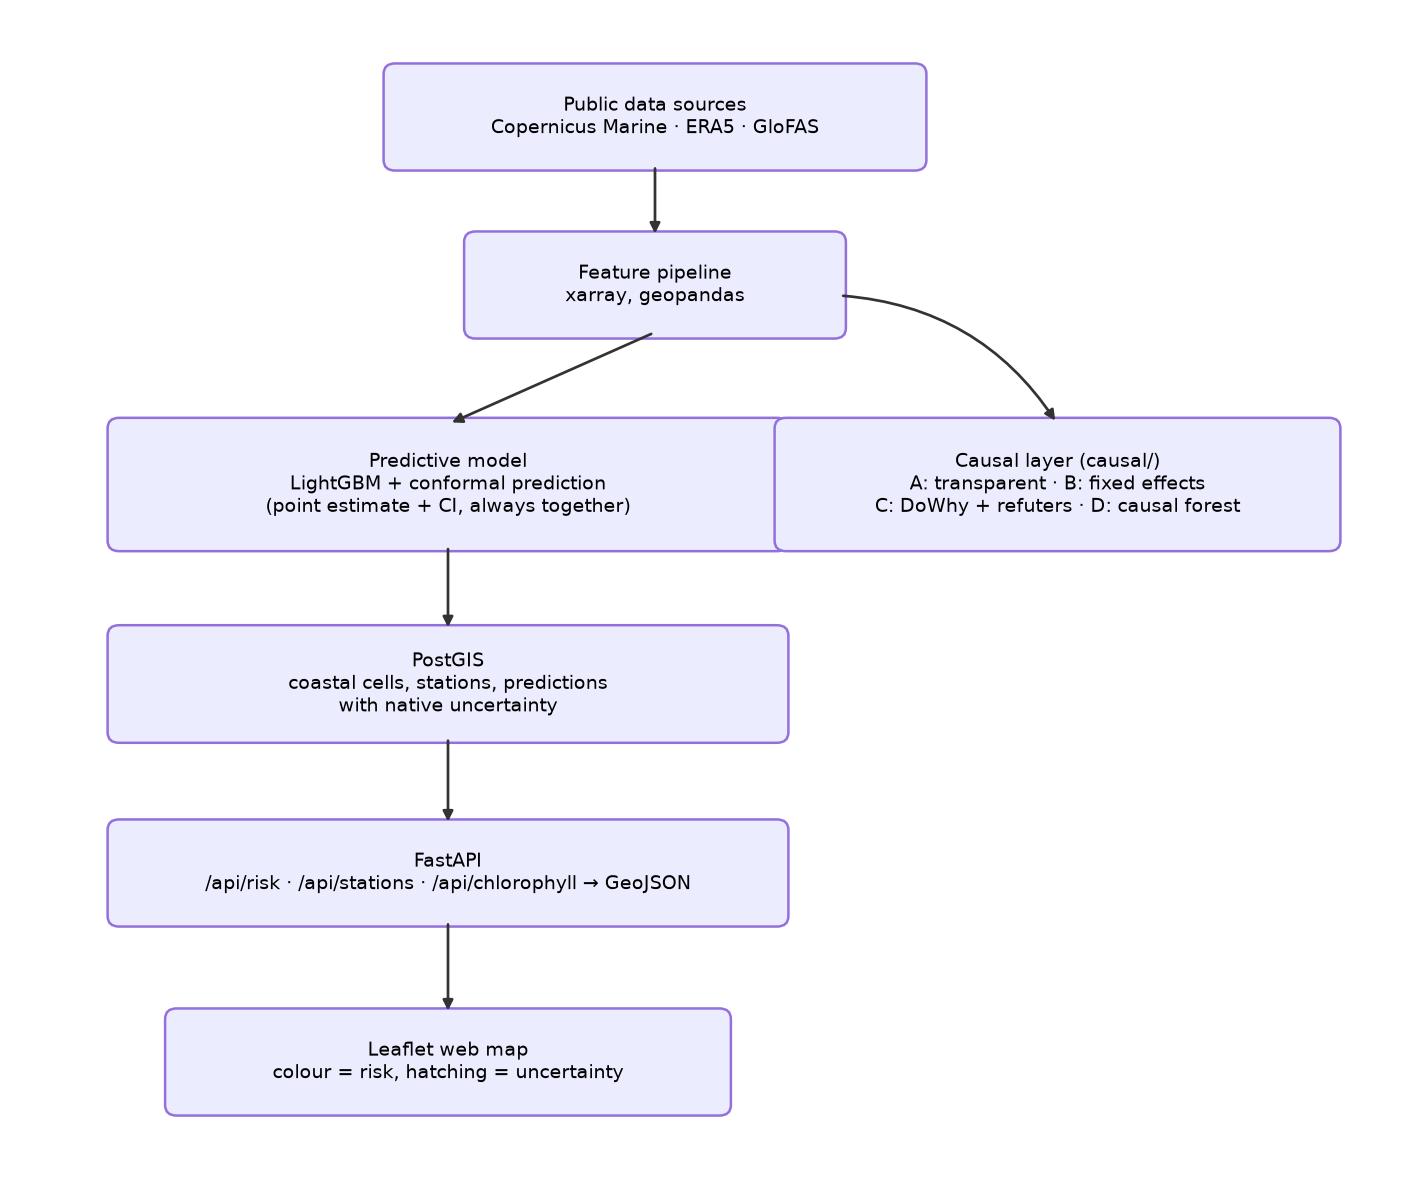
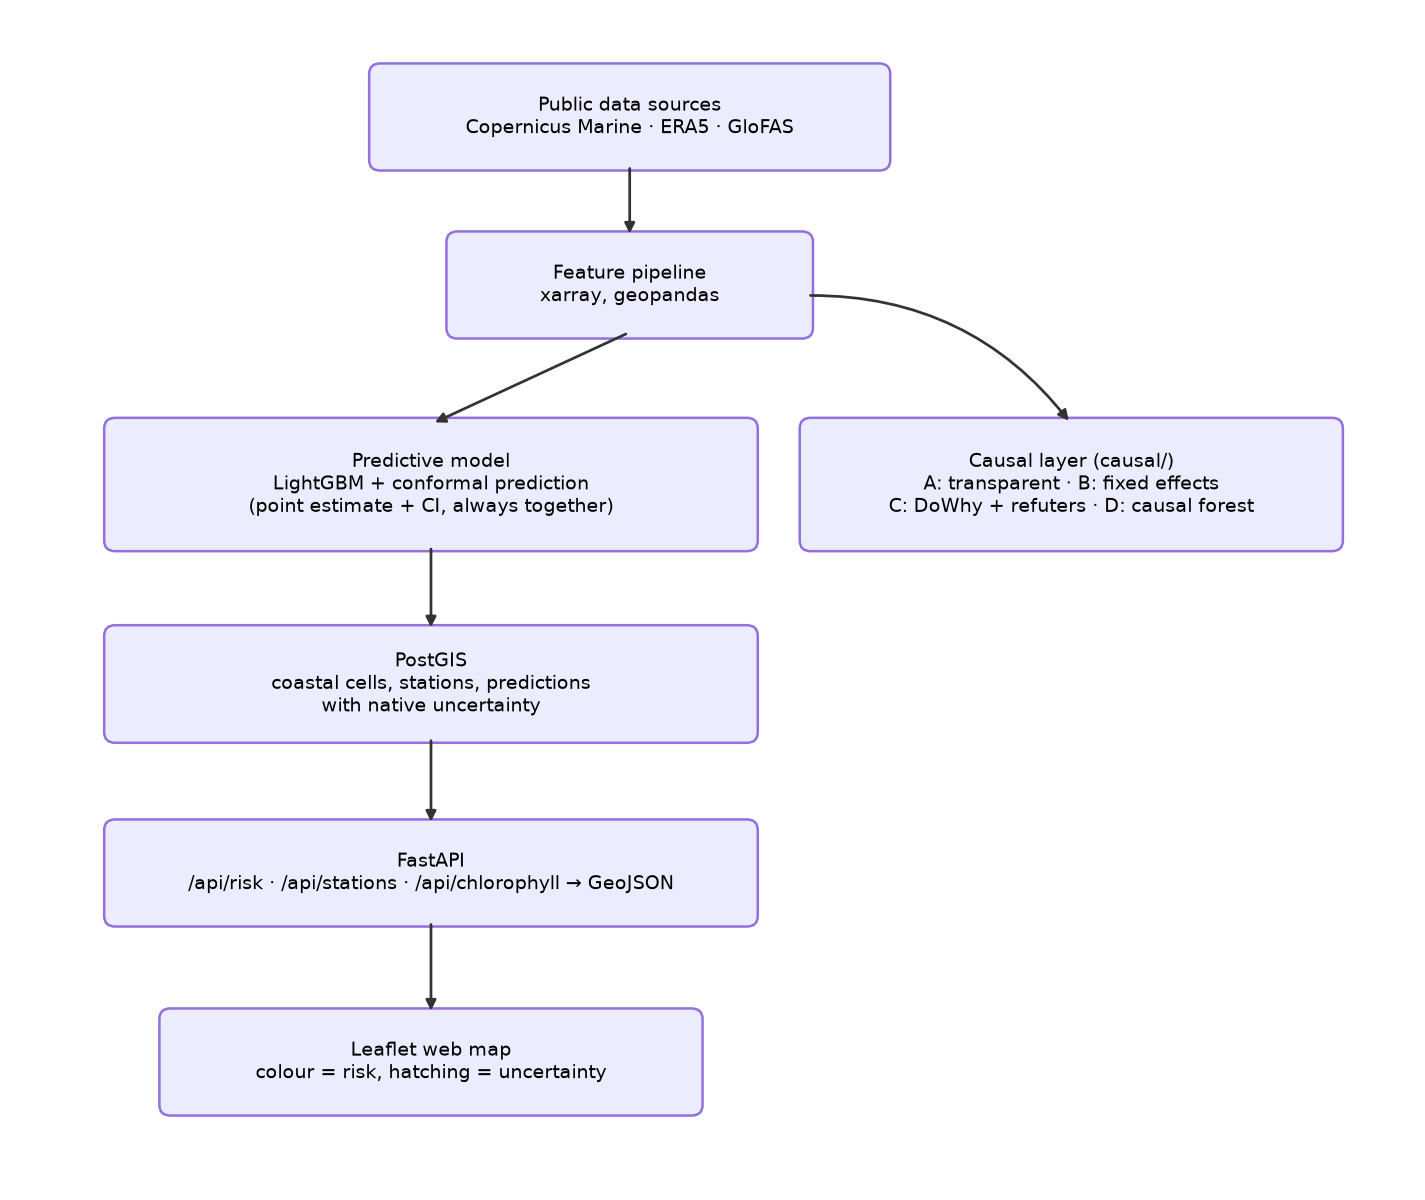
fix overlapping boxes in architecture diagram

diff --git a/causal/plots.py b/causal/plots.py
@@ -162,11 +162,11 @@ def fig_architecture():
         "D": (3.7, 4.7, "PostGIS\ncoastal cells, stations, predictions\nwith native uncertainty", 5.8, 1.0),
         "E": (3.7, 2.9, "FastAPI\n/api/risk · /api/stations · /api/chlorophyll → GeoJSON", 5.8, 0.9),
         "F": (3.7, 1.1, "Leaflet web map\ncolour = risk, hatching = uncertainty", 4.8, 0.9),
-        "G": (9.0, 6.6, "Causal layer (causal/)\nA: transparent · B: fixed effects\nC: DoWhy + refuters · D: causal forest", 4.8, 1.15),
+        "G": (9.5, 6.6, "Causal layer (causal/)\nA: transparent · B: fixed effects\nC: DoWhy + refuters · D: causal forest", 4.8, 1.15),
     }
 
     fig, ax = plt.subplots(figsize=(9.5, 8))
-    ax.set_xlim(0, 12)
+    ax.set_xlim(0, 12.5)
     ax.set_ylim(0, 11)
     ax.axis("off")
 